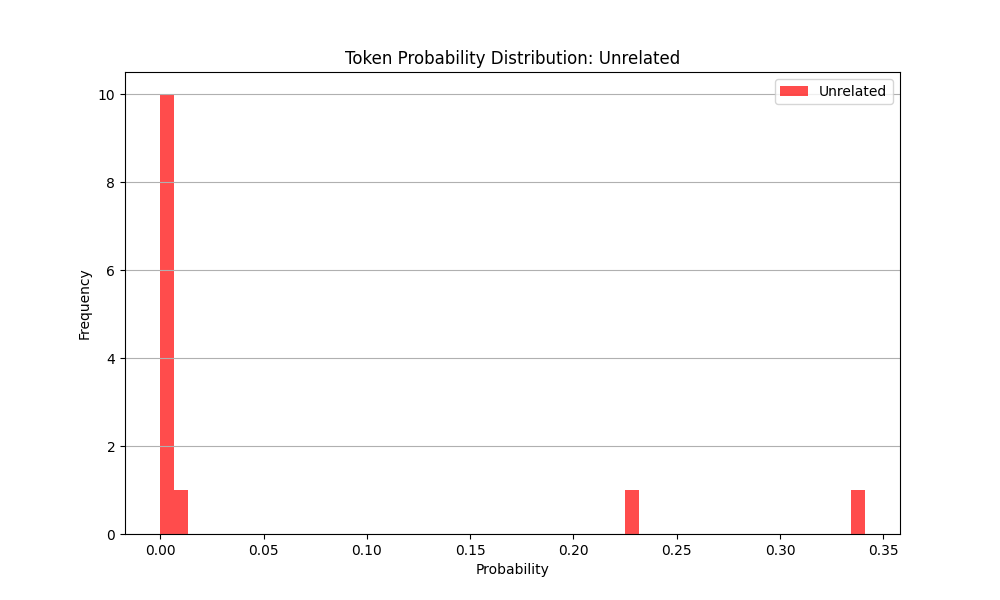
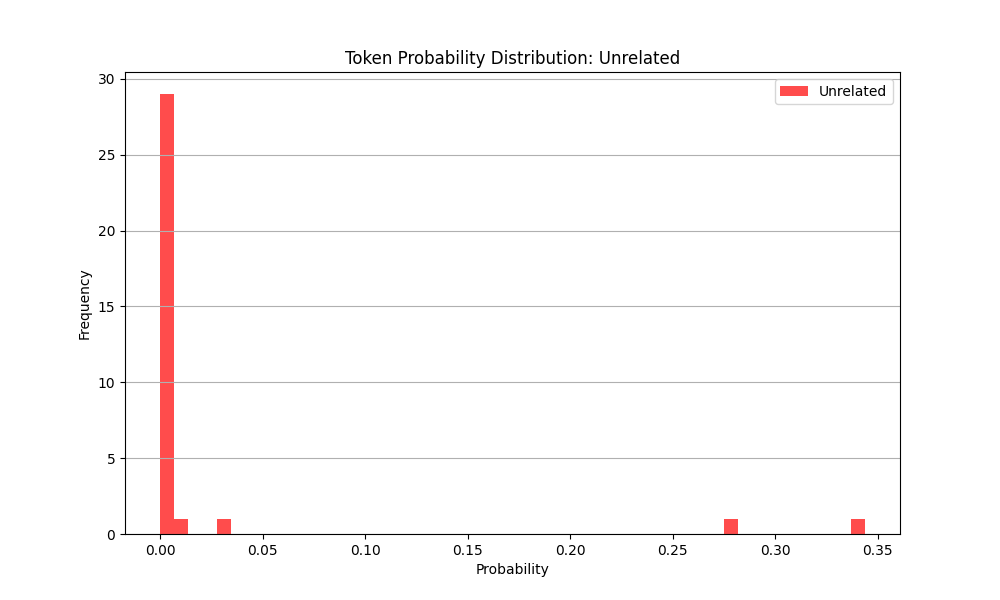
removing fixed seed and changing cost functionality

diff --git a/experiments_simhash.py b/experiments_simhash.py
@@ -43,23 +43,43 @@ def paraphrase_text(tokens, attack_type="substitution", intensity=0.1, vocab_siz
         raise ValueError(f"Unsupported attack type: {attack_type}")
 
 # Function to generate unrelated and unwatermarked text dynamically
-def generate_unrelated_text(model, tokenizer, m, seed):
-    torch.manual_seed(seed)
-    prompts = tokenizer("", return_tensors="pt").input_ids  # Start with an empty prompt
-    outputs = model.generate(prompts, max_length=m, num_return_sequences=1, do_sample=True, top_k=50, temperature=1.5)
-    return tokenizer.decode(outputs[0], skip_special_tokens=True)
+# def generate_unrelated_text(model, tokenizer, m, seed=None):
+#     torch.manual_seed(seed)
+#     prompts = tokenizer("", return_tensors="pt").input_ids  # Start with an empty prompt
+#     outputs = model.generate(prompts, max_length=m, num_return_sequences=1, do_sample=True, top_k=50, temperature=1.5)
+#     return tokenizer.decode(outputs[0], skip_special_tokens=True)
+# import torch
 
-# Function to analyze token probability distributions
-# def plot_token_probabilities(tokens, model, tokenizer):
-#     for token in tokens:
-#         with torch.no_grad():
-#             logits = model(torch.tensor([token]).unsqueeze(0)).logits
-#             probs = torch.softmax(logits[0, -1], dim=-1)
-#             plt.hist(probs.cpu().numpy(), bins=50, alpha=0.7)
-#             plt.title("Token Probability Distribution")
-#             plt.xlabel("Probability")
-#             plt.ylabel("Frequency")
-#             plt.show()
+def generate_unrelated_text(model, tokenizer, m, seed=None):
+    """
+    Generate text that is not related to a specific input prompt.
+    
+    Args:
+    - model (transformers.PreTrainedModel): The language model to use for text generation.
+    - tokenizer (transformers.PreTrainedTokenizer): The tokenizer corresponding to the model.
+    - m (int): The maximum length of the text to generate.
+    - seed (int, optional): The seed for reproducibility. If None, no seed is set.
+
+    Returns:
+    - str: The generated text.
+    """
+    # Set the seed only if provided
+    if seed is not None:
+        torch.manual_seed(seed)
+
+    # Generate text
+    prompts = tokenizer("", return_tensors="pt").input_ids  # Start with an empty prompt
+    outputs = model.generate(
+        prompts, 
+        max_length=m, 
+        num_return_sequences=1, 
+        do_sample=True, 
+        top_k=50, 
+        temperature=1.5
+    )
+
+    # Decode and return the generated text
+    return tokenizer.decode(outputs[0], skip_special_tokens=True)
 
 # Function to compare xi value distributions
 def plot_xi_distributions(watermarked_xis, paraphrased_xis, unrelated_xis):
@@ -126,6 +146,20 @@ def plot_token_probabilities(tokens, model, tokenizer, label):
 
     plt.show()
 
+def plot_detailed_results(detailed_results, tokenizer, title="Token Cost Distribution"):
+    tokens, costs = zip(*detailed_results)  # Unpack the list of tuples into two separate tuples
+    words = [tokenizer.decode([token]) for token in tokens]  # Convert token IDs to words
+    
+    plt.figure(figsize=(12, 8))
+    plt.bar(words, costs, color='blue')  # Plot using words as labels
+    plt.xlabel('Tokens')
+    plt.ylabel('Minimum Costs')
+    plt.title(title)
+    plt.xticks(rotation=90)  # Rotate labels to fit longer words
+    plt.tight_layout()  # Adjust layout to make room for x-axis labels
+    plt.savefig("Image_outputs/" + str(title))
+    plt.show()
+
 # Updated main experiment function
 def run_experiment():
     # Model and tokenizer setup
@@ -134,13 +168,13 @@ def run_experiment():
     model = AutoModelForCausalLM.from_pretrained(model_name)
 
     # Parameters
-    k = 150   # Number of hash functions
-    b = 30    # Bits per hash
-    base_seed = 42  # Base seed for reproducibility
+    k = 30   # Number of hash functions
+    b = 10    # Bits per hash
+    # base_seed = 42  # Base seed for reproducibility
     vocab_size = tokenizer.vocab_size
     n = 256   # Sampling parameter (unused here)
     m = 50    # Number of tokens to generate
-    num_samples = 1  # Increase number of samples for better analysis
+    num_samples = 10  # Increase number of samples for better analysis
 
     # Generate initial tokens (starting from an empty prompt)
     prompts = tokenizer("", return_tensors="pt").input_ids  # Empty context to start generation
@@ -159,7 +193,7 @@ def run_experiment():
     with open("text_outputs.txt", "w") as output_file:
         for i in range(num_samples):
             # Generate a unique seed for each sample
-            seed = base_seed + i
+            # seed = base_seed + i
 
             # Generate watermarked text
             watermarked_tokens = generate_with_simhash(
@@ -169,7 +203,7 @@ def run_experiment():
                 vocab_size=vocab_size,
                 n=n,
                 m=m,
-                seeds=[seed],
+                # seeds=[seed],
                 k=k,
                 b=b,
             )
@@ -177,22 +211,23 @@ def run_experiment():
 
             # Collect xi values for watermarked text
             watermarked_xis.extend(watermarked_tokens)
-            wm_p_value, _, wm_min_cost = simhash_detect_with_permutation(
-                context=tokenizer.decode(watermarked_tokens[:-1], skip_special_tokens=True),
-                observed_token=watermarked_tokens[-1],
+
+            wm_p_value, _, wm_min_cost, wm_ind_costs = simhash_detect_with_permutation(
+                context=watermarked_text,  # Use the whole generated text as context
+                observed_sequence=watermarked_tokens,  # Use the whole sequence of tokens
                 vocab_size=vocab_size,
                 k=k,
                 b=b,
-                seed=seed,
+                # seed=seed,
                 model=model,
-                tokenizer=tokenizer,
-                n_runs=100,
-                threshold=0.5
+                tokenizer=tokenizer
             )
             watermarked_costs.append(wm_min_cost)
 
             # Plot token probabilities for watermarked text
             plot_token_probabilities(watermarked_tokens, model, tokenizer, "Watermarked")
+            # plot_token_costs(watermarked_tokens, model, tokenizer, watermarked_text, k, b, seed, "Watermarked")
+            plot_detailed_results(wm_ind_costs, tokenizer, title=f"Token Cost Distribution Watermarked for Sample {i+1}")
 
             # Generate paraphrased text
             watermarked_tokens_tensor = torch.tensor(watermarked_tokens, dtype=torch.long)
@@ -201,45 +236,47 @@ def run_experiment():
 
             # Collect xi values for paraphrased text
             paraphrased_xis.extend(paraphrased_tokens)
-            para_p_value, _, para_min_cost = simhash_detect_with_permutation(
-                context=tokenizer.decode(watermarked_tokens[:-1], skip_special_tokens=True),
-                observed_token=int(paraphrased_tokens[-1]),
+
+            para_p_value, _, para_min_cost, para_ind_costs = simhash_detect_with_permutation(
+                context=paraphrased_text,  # Use the whole generated text as context
+                observed_sequence=paraphrased_tokens,  # Use the whole sequence of tokens
                 vocab_size=vocab_size,
                 k=k,
                 b=b,
-                seed=seed,
+                # seed=seed,
                 model=model,
-                tokenizer=tokenizer,
-                n_runs=100,
-                threshold=0.5
+                tokenizer=tokenizer
             )
             paraphrased_costs.append(para_min_cost)
 
             # Plot token probabilities for paraphrased text
             plot_token_probabilities(paraphrased_tokens, model, tokenizer, "Paraphrased")
+            plot_detailed_results(para_ind_costs, tokenizer, title=f"Token Cost Distribution Paraphrased for Sample {i+1}")
+            # plot_token_costs(paraphrased_tokens, model, tokenizer, paraphrased_text, k, b, seed, "Paraphrased")
 
             # Generate unrelated and unwatermarked text
-            unrelated_text = generate_unrelated_text(model, tokenizer, m, seed)
+            unrelated_text = generate_unrelated_text(model, tokenizer, m)
             unrelated_tokens = tokenizer(unrelated_text, return_tensors="pt").input_ids[0]
 
             # Collect xi values for unrelated text
             unrelated_xis.extend(unrelated_tokens)
-            unrelated_p_value, _, unrelated_min_cost = simhash_detect_with_permutation(
-                context=tokenizer.decode(watermarked_tokens[:-1], skip_special_tokens=True),
-                observed_token=int(unrelated_tokens[-1]),
+
+            unrelated_p_value, _, unrelated_min_cost, unrelated_ind_costs = simhash_detect_with_permutation(
+                context=unrelated_text,  # Use the whole generated text as context
+                observed_sequence=unrelated_tokens,  # Use the whole sequence of tokens
                 vocab_size=vocab_size,
                 k=k,
                 b=b,
-                seed=seed,
+                # seed=seed,
                 model=model,
-                tokenizer=tokenizer,
-                n_runs=100,
-                threshold=0.5
+                tokenizer=tokenizer
             )
             unrelated_costs.append(unrelated_min_cost)
 
             # Plot token probabilities for unrelated text
             plot_token_probabilities(unrelated_tokens, model, tokenizer, "Unrelated")
+            plot_detailed_results(unrelated_ind_costs, tokenizer, title=f"Token Cost Distribution Unrelated for Sample {i+1}")
+            # plot_token_costs(unrelated_tokens, model, tokenizer, unrelated_text, k, b, seed, "Unrelated")
 
             # Print and write the generated texts
             output = (
@@ -262,7 +299,7 @@ def run_experiment():
     # Print the averages
     print("Average Min Cost Values:")
     print(f"Watermarked Text: {avg_watermarked:.4f}")
-    print(f"Paraphrased Text: {avg_paraphrased:.4f}")
+    print(f"Attack Text: {avg_paraphrased:.4f}")
     print(f"Unrelated Text: {avg_unrelated:.4f}\n")
 
     # Write the averages to the file

diff --git a/detection_simhash.py b/detection_simhash.py
@@ -12,7 +12,7 @@ def simple_encoder(text, model, tokenizer):
         embeddings = outputs.hidden_states[-1].mean(dim=1).squeeze()  # Mean pooling
     return embeddings
 
-def simhash_detect_with_permutation(context, observed_sequence, vocab_size, k, b, seed, model, tokenizer, n_runs=100, max_seed=100000, threshold=0.1):
+def simhash_detect_with_permutation(context, observed_sequence, vocab_size, k, b, model, tokenizer, seed=None, n_runs=100, max_seed=100000, threshold=0.1):
     """
     SimHash Detection Logic with Permutation Test for p-value computation.
     Determines whether a watermark exists in the observed sequence of tokens.
@@ -36,11 +36,17 @@ def simhash_detect_with_permutation(context, observed_sequence, vocab_size, k, b
         return min_cost
 
     # Compute observed test statistics for the sequence
-    observed_results = [compute_test_stat(token) for token in observed_sequence]
-    observed_average_cost = sum(observed_results) / len(observed_results)
+    # observed_results = [compute_test_stat(token) for token in observed_sequence]
+    observed_results = [(token, compute_test_stat(token)) for token in observed_sequence]
+    # observed_average_cost = sum(observed_results) / len(observed_results)
+    observed_average_cost = sum(cost for _, cost in observed_results) / len(observed_results)
+    # individual_token_costs = {token: costs for token, (_, costs) in zip(observed_sequence, observed_results)}
 
     # Generate null distribution via permutations
-    generator = torch.Generator().manual_seed(seed)
+    if seed is not None:
+        generator = torch.Generator().manual_seed(seed)
+    else:
+        generator = torch.Generator()
     null_results = []
 
     for _ in range(n_runs):
@@ -58,4 +64,4 @@ def simhash_detect_with_permutation(context, observed_sequence, vocab_size, k, b
     # Analyze detection based on threshold
     result = "Watermark detected" if p_value < threshold else "No watermark detected"
 
-    return p_value, result, observed_average_cost
+    return p_value, result, observed_average_cost, observed_results

diff --git a/generate_simhash.py b/generate_simhash.py
@@ -13,7 +13,7 @@ def simple_encoder(text, model, tokenizer):
 
 # SimHashWatermark class for watermarking logic
 class SimHashWatermark:
-    def __init__(self, d, vocab_size, k, b, seed):
+    def __init__(self, d, vocab_size, k, b, seed=None):
         """
         Initialization: Precompute Gaussian vectors.
         Step 3: Use (seed, ell) to sample b Gaussian vectors r_1, ..., r_b in R^d.
@@ -24,7 +24,9 @@ class SimHashWatermark:
         self.b = b  # Number of bits per hash
         self.seed = seed  # Seed for reproducibility
 
-        torch.manual_seed(seed)  # Set random seed for reproducibility
+        # torch.manual_seed(seed)  # Set random seed for reproducibility
+        if seed is not None:
+            torch.manual_seed(seed)  # Set random seed for reproducibility if seed is given
         self.gaussian_vectors = [torch.randn(d) for _ in range(k * b)]  # Pre-generate Gaussian vectors
 
     def hash_function(self, vector, ell):
@@ -49,7 +51,7 @@ class SimHashWatermark:
         generator.manual_seed(hash_value)  # Set random seed based on hash value
         return torch.rand(self.vocab_size, generator=generator)  # Generate uniform random vector xi
 
-def generate_with_simhash(model, tokenizer, prompts, vocab_size, n, m, seeds, k, b, random_offset=True):
+def generate_with_simhash(model, tokenizer, prompts, vocab_size, n, m, k, b, seeds=None, random_offset=True):
     """
     Enhanced Generation Algorithm with SimHash and Exponential Minimum Sampling.
     """
@@ -59,7 +61,7 @@ def generate_with_simhash(model, tokenizer, prompts, vocab_size, n, m, seeds, k,
 
     # Dynamically determine embedding dimensionality d
     d = embedded_context.size(-1)
-    watermark = SimHashWatermark(d, vocab_size, k, b, seeds[0])  # Initialize SimHashWatermark
+    watermark = SimHashWatermark(d, vocab_size, k, b, seeds)  # Initialize SimHashWatermark
 
     # Random offset for unpredictability
     offset = torch.randint(n, size=(1,)) if random_offset else torch.zeros(1, dtype=torch.int64)
